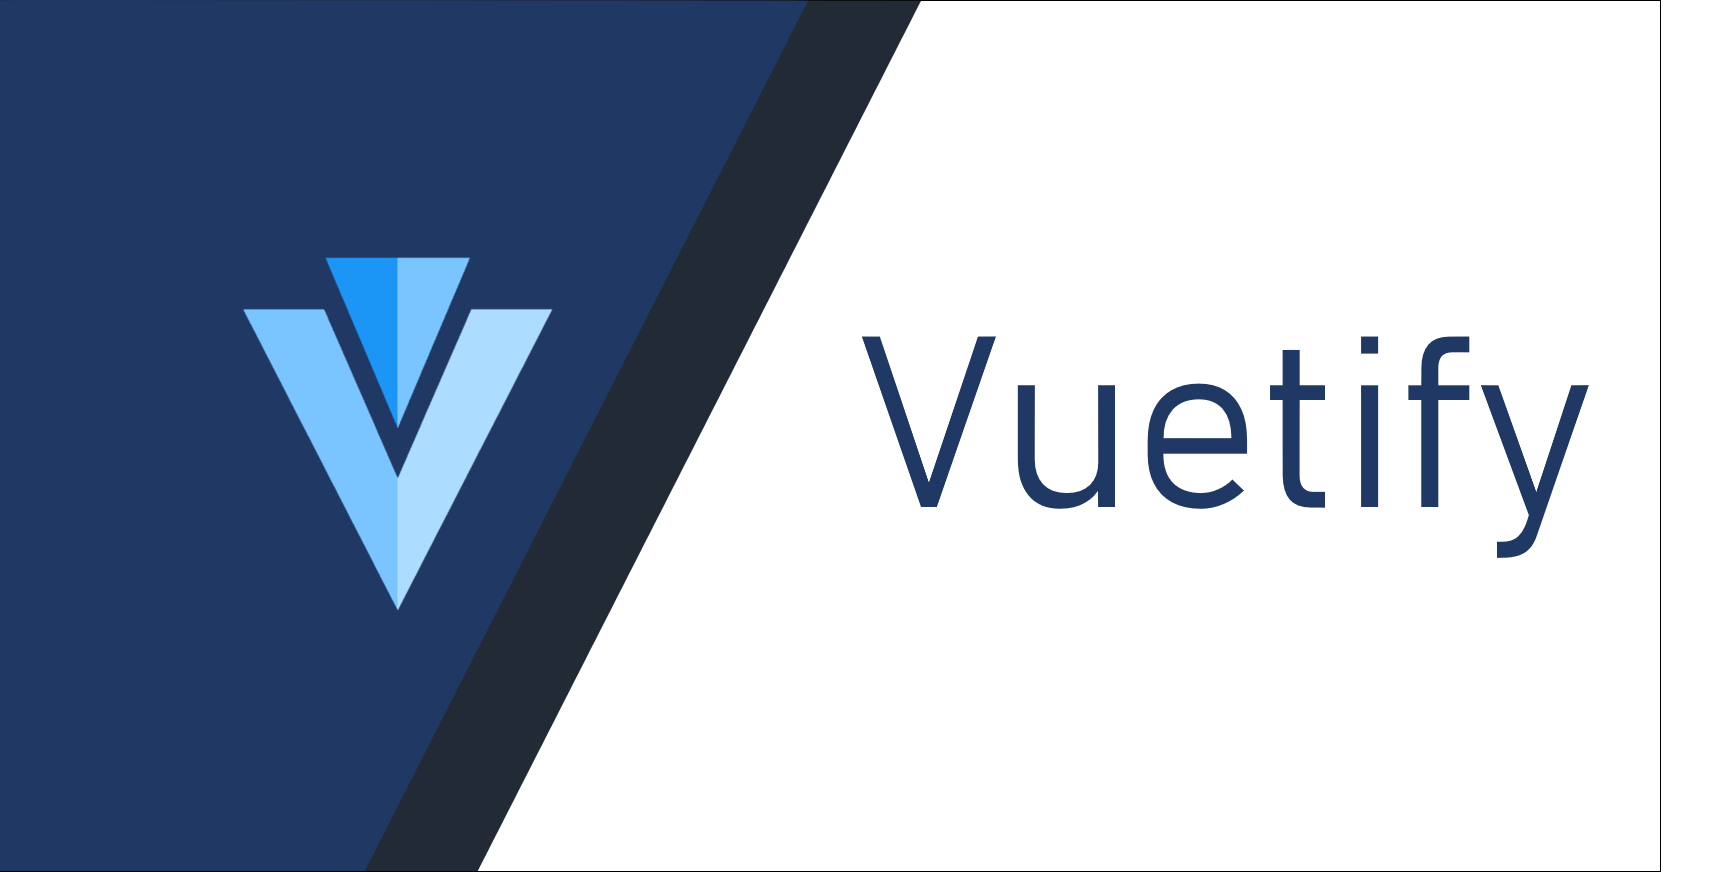
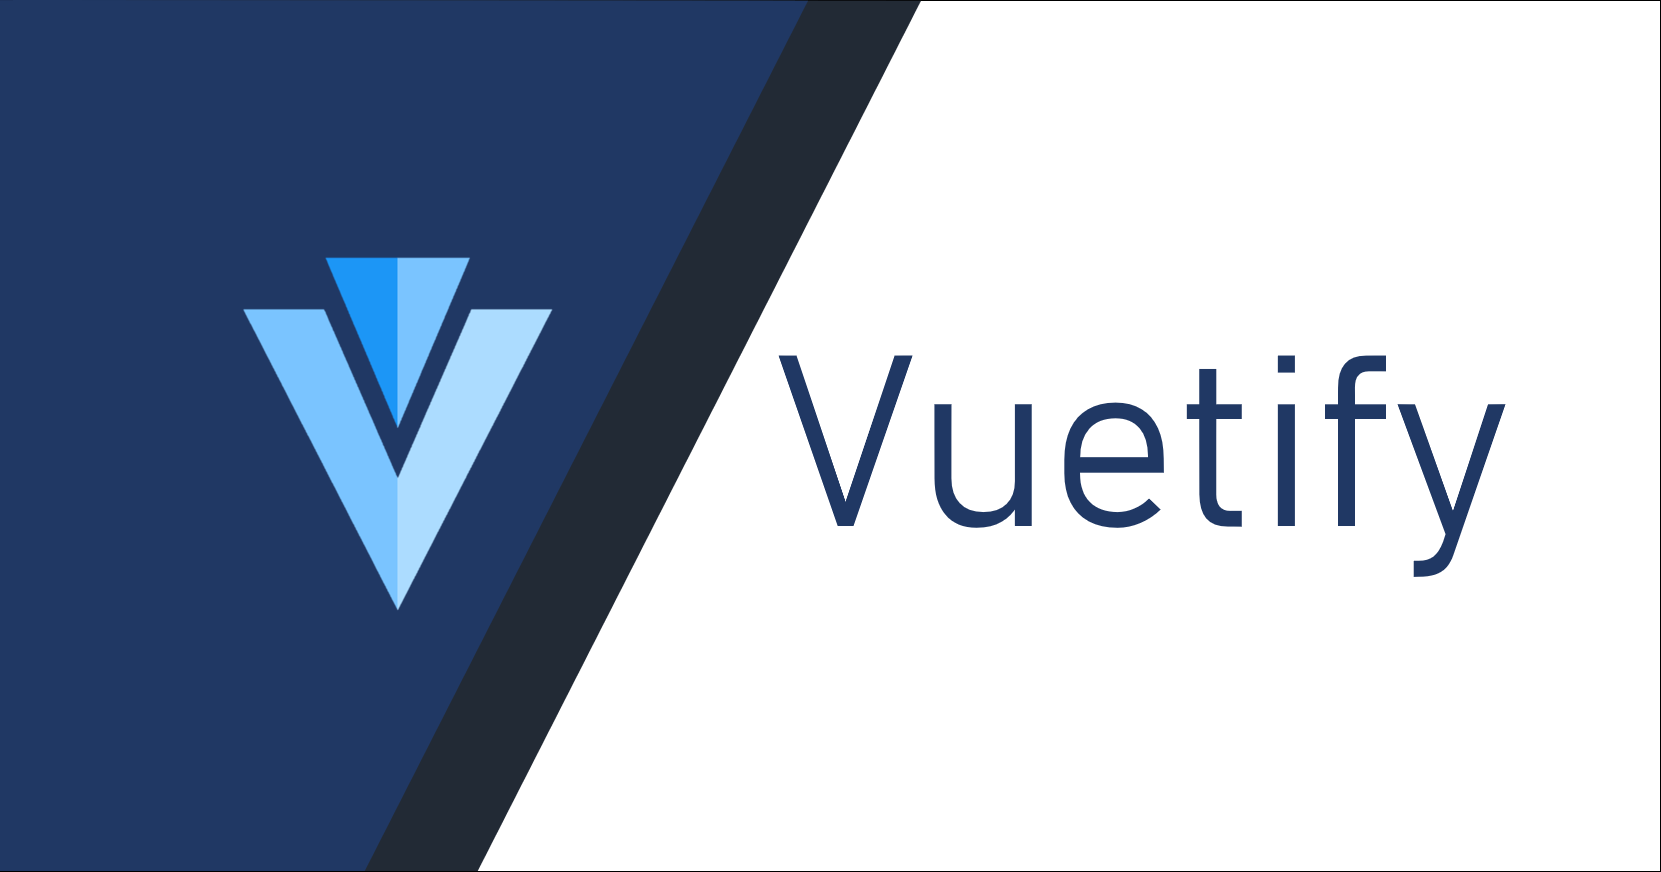
記事作成「VeeValidateのカスタムバリデーションでロケール毎にメッセージを設定する方法」 (#102)
* #98 サムネイル画像微修正

* #98 記事の土台作成

* #98 記事作成

* #98 投稿日修正

diff --git a/src/pages/2019/04/vee-validate-custom-validation-locale-message/index.md b/src/pages/2019/04/vee-validate-custom-validation-locale-message/index.md
@@ -1,0 +1,76 @@
+---
+title: 'Vuetify + VeeValidate + VueI18nでカスタムバリデーション作成時にロケールごとのエラーメッセージを設定する方法'
+date: '2019-04-07T14:10:00.000+09:00'
+tags:
+  - Vue.js
+  - Vuetify
+  - VeeValidate
+  - VueI18n
+keywords:
+  - Vue.js
+slug: /vee-validate-custom-validation-locale-message
+thumbnail: /thumbnail/2019/04/vee-validate-custom-validation-locale-message.png
+---
+
+![vee-validate-custom-validation-locale-message](/thumbnail/2019/04/vee-validate-custom-validation-locale-message.png)
+
+## なにこれ
+
+[Vuetify](https://vuetifyjs.com/ja/) + [VeeValidate](https://baianat.github.io/vee-validate/)で入力チェックする際に、[VueI18n](https://kazupon.github.io/vue-i18n/)を使ってエラーメッセージを多言語対応・共通化する場合に、カスタムバリデーションのエラーメッセージをロケールごとに設定する方法について紹介します。
+
+## 実装方法
+
+以前の記事[「Vuetify + VeeValidate + VueI18nでエラーメッセージ共通化」](https://takumon.com/vuetify-and-vee-validate-and-vue-i18n)
+をベースにして、VeeValidateの定義方法を以下のようにします。
+例ではMACアドレスのチェックを定義しています。
+
+```javascript{7-11,13,14}
+import Vue from 'vue';
+import VeeValidate from 'vee-validate';
+import ja from 'vee-validate/dist/locale/ja';
+import en from 'vee-validate/dist/locale/en';
+import { i18n } from './i18n';
+
+// マックアドレスチェック
+const MAC_ADDRESS = /^([0-9A-Fa-f]{2}[:-]){5}[0-9A-Fa-f]{2}$/;
+VeeValidate.Validator.extend('macaddress', {
+  validate: value => MAC_ADDRESS.text(value),
+});
+
+ja.messages.macaddress = field => `${field}の形式が正しくありません。`;
+en.messages.macaddress = field => `format of ${field} is not collect.`;
+
+Vue.use(VeeValidate, {
+  i18n,
+  i18nRootKey: 'validations',
+  dictionary: {
+    ja,
+    en,
+  },
+});
+```
+<br/>
+
+
+重要なのはこの部分です。
+```javascript
+import ja from 'vee-validate/dist/locale/ja';
+import en from 'vee-validate/dist/locale/en';
+
+ja.messages.macaddress = field => `${field}の形式が正しくありません。`;
+en.messages.macaddress = field => `format of ${field} is not collect.`;
+
+```
+<br/>
+
+VeeValidateのカスタムバリデーションのメッセージは通常`getMessage`で定義します。
+```javascript
+VeeValidate.Validator.extend('macaddress', {
+  getMessage: field => `${field}の形式が正しくありません。`,
+  validate: value => MAC_ADDRESS.text(value),
+});
+```
+<br/>
+
+ただVuetifyとi18nと合わせて使う場合は、`getMessage`ではなく、`dictionary`に登録するロケールごとのメッセージ集に追加してあげることでメッセージが有効になります。<br/>
+以上です🍅
